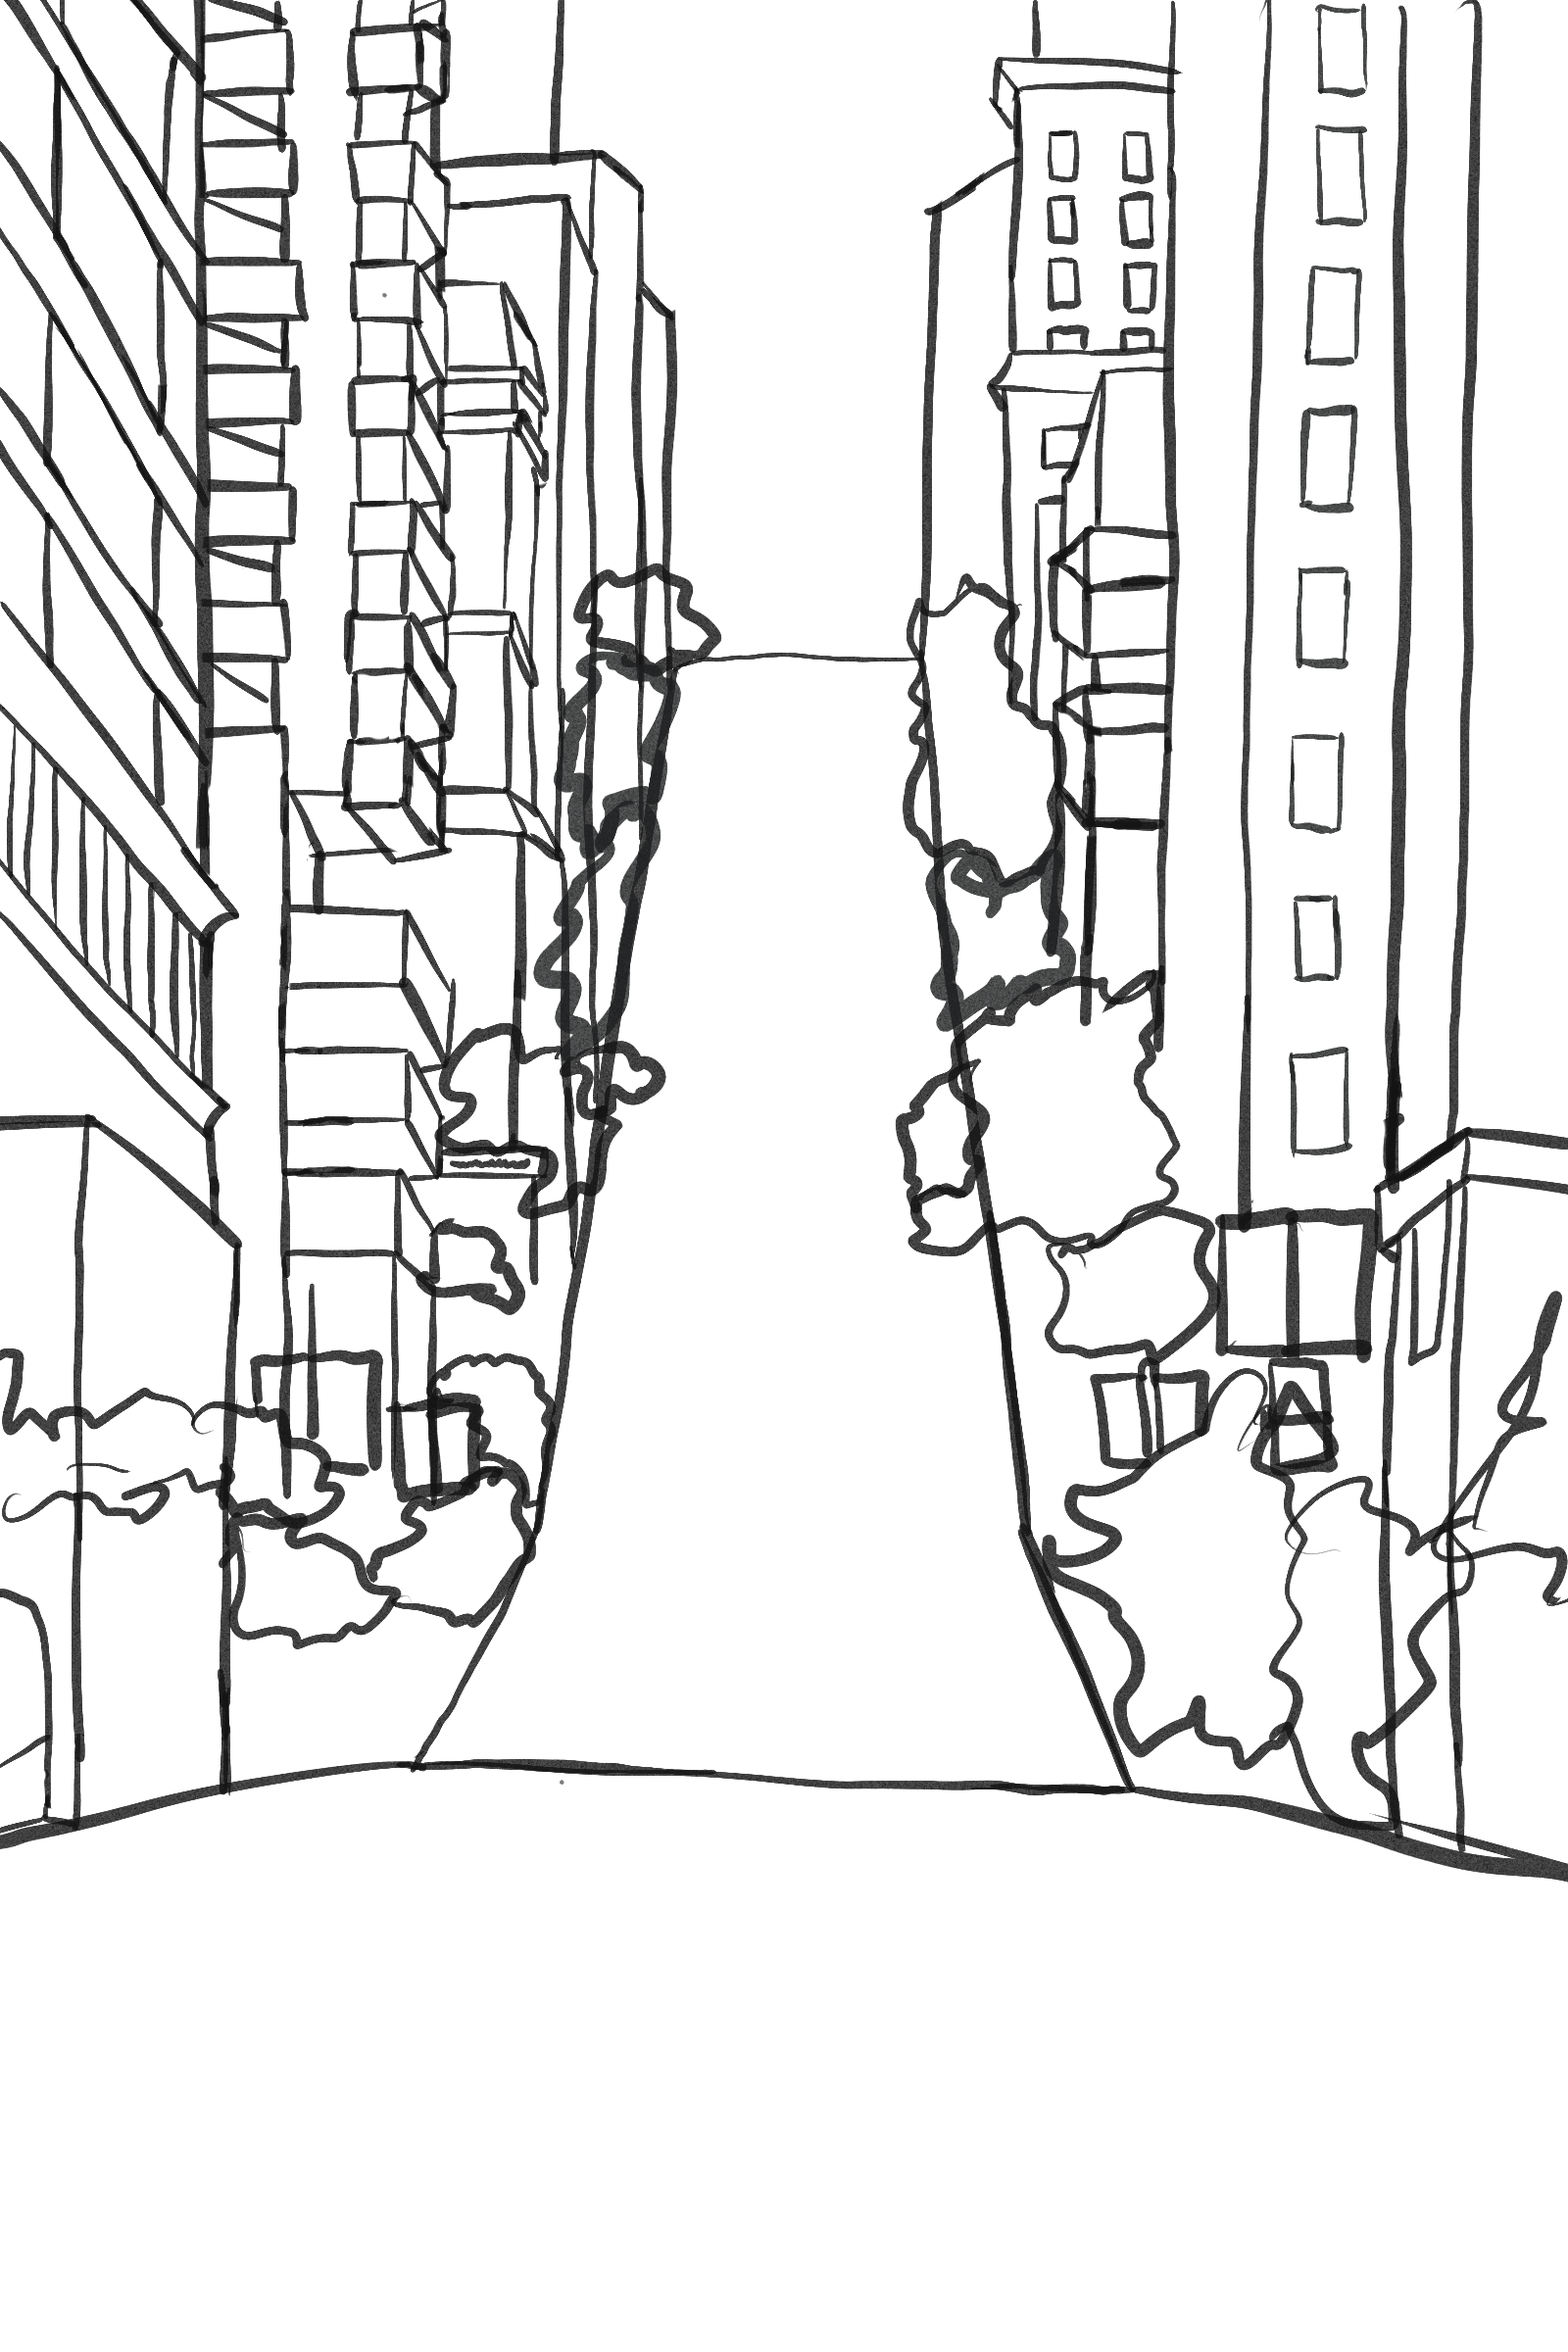
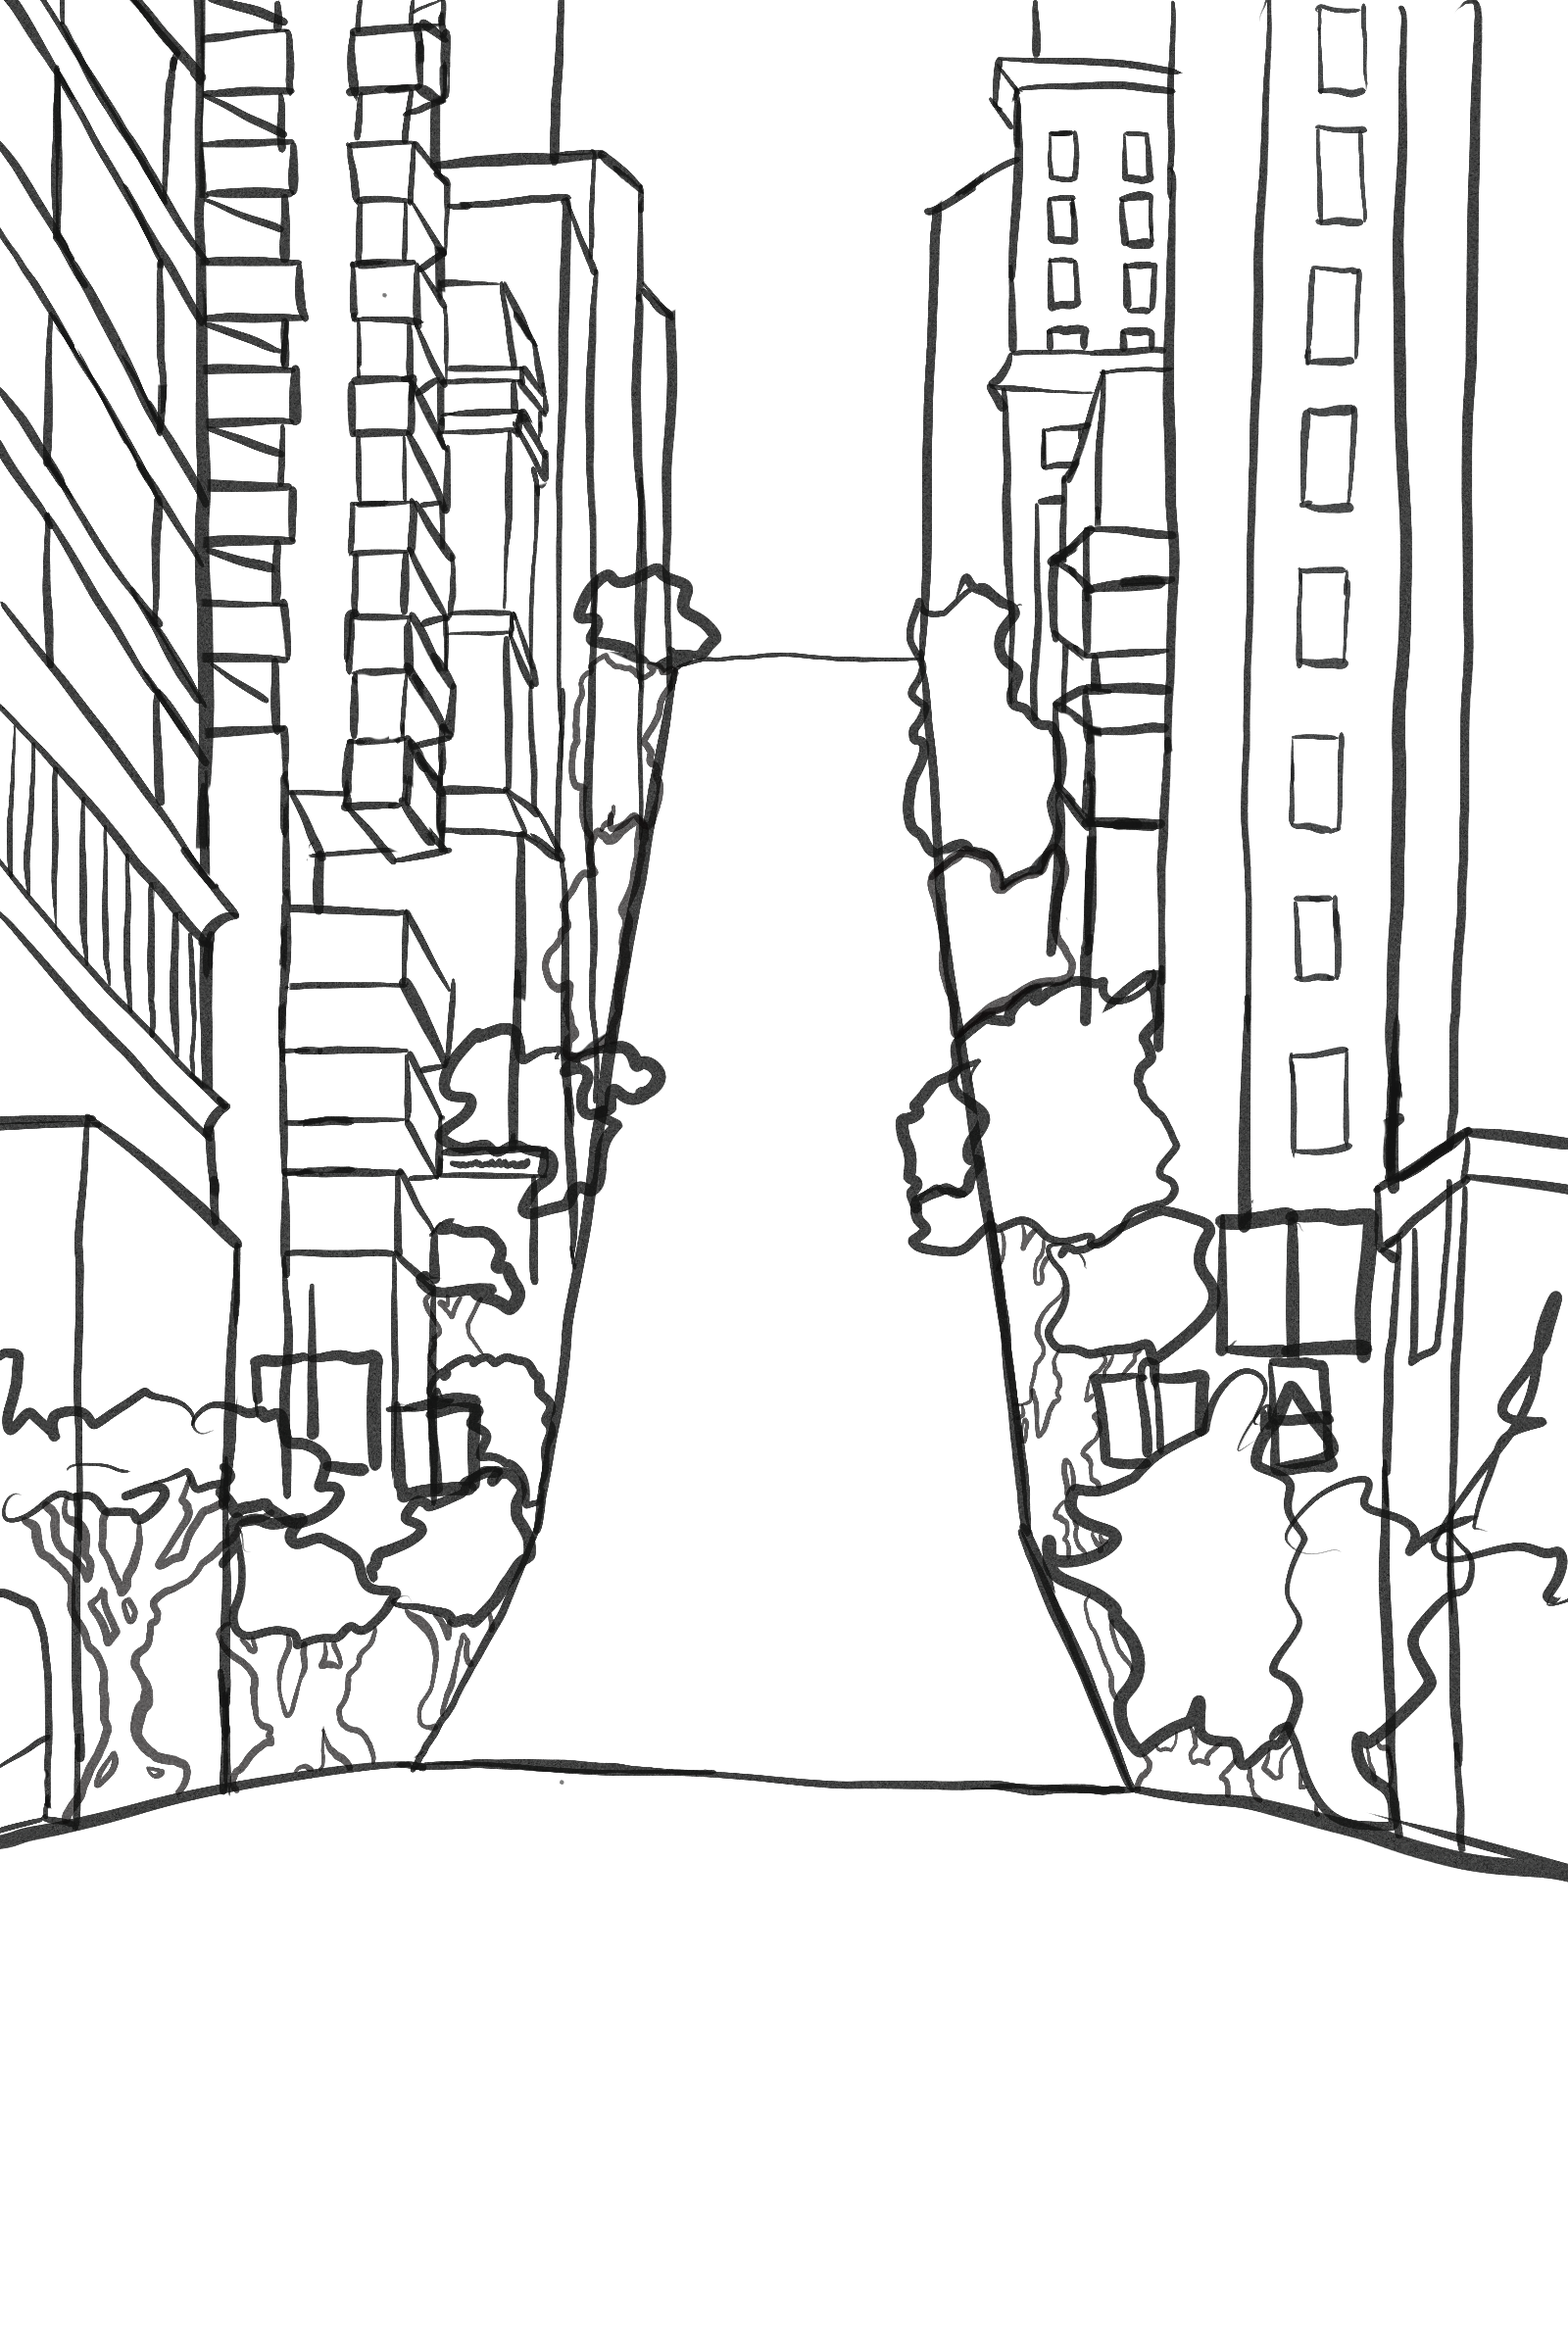
sky

diff --git a/music_effect.js b/music_effect.js
@@ -1,5 +1,9 @@
 let firstRun = true
 
+let yPos = 0;
+
+let whitebackground;
+let greyroad;
 let buildingColour;
 let buildingOutline;
 let bodyOfStar;
@@ -11,7 +15,10 @@ function draw_one_frame(words, vocal, drum, bass, other,counter) {
   
   if (firstRun) {
     rectMode(CENTER);
-    moonRise = loadImage('sky.png');
+
+    whitebackground = loadImage('whiteback.png');
+    greyroad = loadImage('road.png');
+    moonRise = loadImage('sky1.png');
     yellowLines = loadImage('roadLines.png');
     buildingOutline = loadImage('outline.png');
     buildingColour = loadImage('colourIN.png');
@@ -26,12 +33,24 @@ function draw_one_frame(words, vocal, drum, bass, other,counter) {
     firstRun = false
   }
   
+  
  background(65);
+ 
+
+ 
+
+ if (yPos >= 0) {
+  yPos += 0.1;
+}
+translate(image(moonRise, 0, yPos-1700));
+
+image(whitebackground, 0, 0);
 
  var movementBuild = map(drum, 0, 100, -10, 10)
  var bodyHeight = map(vocal, -50, 140, 50, -20)
  
- image(moonRise, 0, 0);
+
+ image(greyroad, 0, 0);
  image(yellowLines, 0, 0);
  image(buildingColour, movementBuild, 0);
  image(buildingOutline, 0, 0);
